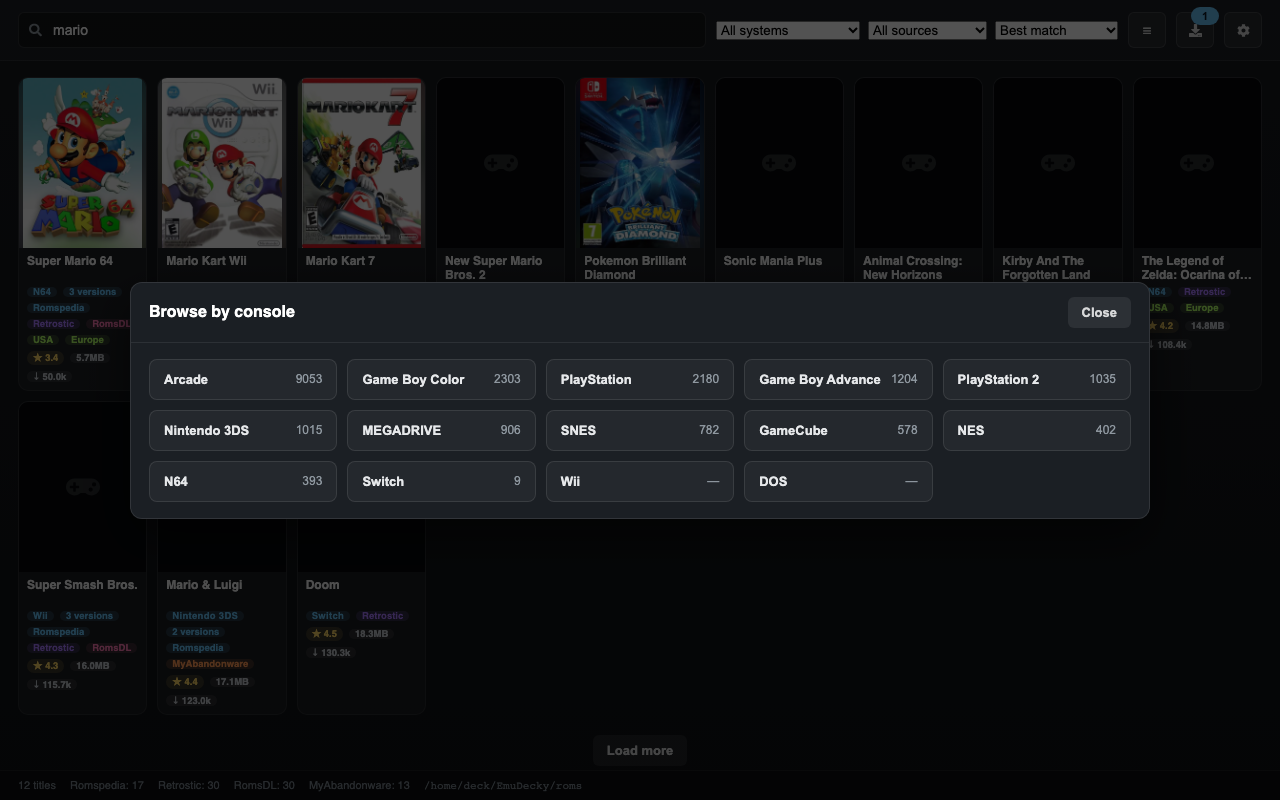
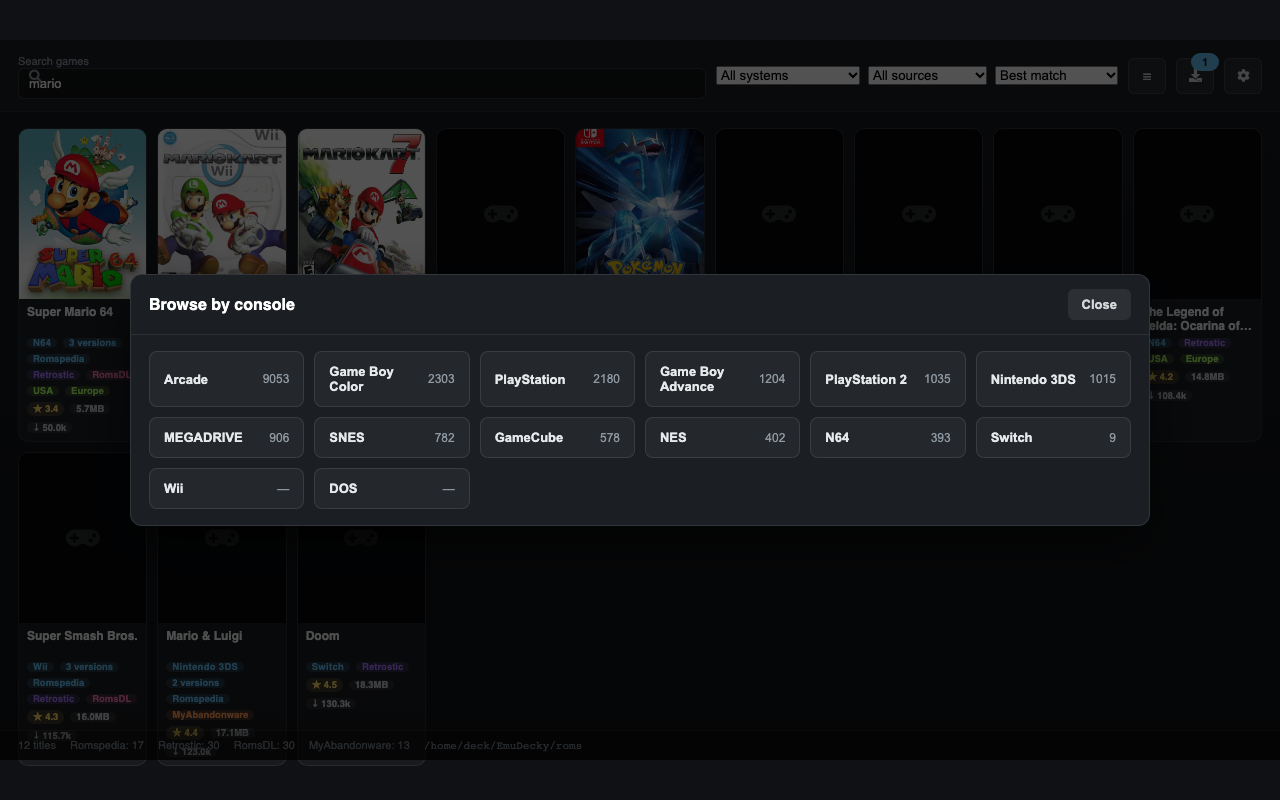
Use Steam TextField for all inputs, default chrome insets to 40px, centre the loader, six console tiles per row

diff --git a/src/components/SettingsModal.tsx b/src/components/SettingsModal.tsx
@@ -1,4 +1,5 @@
 import { FC, useEffect, useState } from "react";
+import { TextField } from "@decky/ui";
 import { toaster } from "@decky/api";
 import { getLibrary, getSettings, LibraryInfo, Settings, updateSettings } from "../types";
 import { SOURCE_LABELS } from "./common";
@@ -89,7 +90,12 @@ const SettingsModal: FC<Props> = ({ onClose, onSaved }) => {
           <div className="rs-section-title">ROM library</div>
           <div className="rs-form-row">
             <label>EmuDecky ROM folder</label>
-            <input type="text" value={customRoot} onChange={(event) => setCustomRoot(event.target.value)} placeholder="/home/deck/EmuDecky/roms" />
+            <TextField
+              label="EmuDecky ROM folder"
+              value={customRoot}
+              placeholder="/home/deck/EmuDecky/roms"
+              onChange={(event) => setCustomRoot(event.target.value)}
+            />
           </div>
           <div className="rs-form-row">
             <label>Detected folders</label>
@@ -148,8 +154,8 @@ const SettingsModal: FC<Props> = ({ onClose, onSaved }) => {
                   </div>
                   <div className="rs-form-row">
                     <label>Search URL</label>
-                    <input
-                      type="text"
+                    <TextField
+                      label="DumbRoms search URL"
                       value={settings.dumbroms_search_url}
                       onChange={(event) => update({ dumbroms_search_url: event.target.value })}
                     />
@@ -168,8 +174,8 @@ const SettingsModal: FC<Props> = ({ onClose, onSaved }) => {
           <div className="rs-section-title">Cover art</div>
           <div className="rs-form-row">
             <label>IGDB client ID</label>
-            <input
-              type="text"
+            <TextField
+              label="IGDB client ID"
               value={settings.igdb_client_id ?? ""}
               onChange={(event) => update({ igdb_client_id: event.target.value })}
               placeholder="optional"
@@ -177,8 +183,8 @@ const SettingsModal: FC<Props> = ({ onClose, onSaved }) => {
           </div>
           <div className="rs-form-row">
             <label>IGDB client secret</label>
-            <input
-              type="text"
+            <TextField
+              label="IGDB client secret"
               value={settings.igdb_client_secret ?? ""}
               onChange={(event) => update({ igdb_client_secret: event.target.value })}
               placeholder="optional"
@@ -194,16 +200,16 @@ const SettingsModal: FC<Props> = ({ onClose, onSaved }) => {
           <div className="rs-section-title">Steam overlay</div>
           <div className="rs-form-row">
             <label>Header offset</label>
-            <input
-              type="text"
+            <TextField
+              label="Header offset (px)"
               value={String(settings.chrome_top_offset ?? 0)}
               onChange={(event) => update({ chrome_top_offset: Number(event.target.value) || 0 })}
             />
           </div>
           <div className="rs-form-row">
             <label>Button bar offset</label>
-            <input
-              type="text"
+            <TextField
+              label="Button bar offset (px)"
               value={String(settings.chrome_bottom_offset ?? 0)}
               onChange={(event) => update({ chrome_bottom_offset: Number(event.target.value) || 0 })}
             />

diff --git a/src/index.tsx b/src/index.tsx
@@ -1,6 +1,6 @@
-import { useEffect, useRef, useState } from "react";
+import { useEffect, useState } from "react";
 import { definePlugin, routerHook } from "@decky/api";
-import { ButtonItem, Navigation, PanelSection, PanelSectionRow, staticClasses } from "@decky/ui";
+import { ButtonItem, Navigation, PanelSection, PanelSectionRow, staticClasses, TextField } from "@decky/ui";
 import { FaStore } from "react-icons/fa";
 
 import Store from "./components/Store";
@@ -19,7 +19,6 @@ const StoreRoute = () => (
 function PanelContent() {
   const [query, setQuery] = useState("");
   const [active, setActive] = useState(0);
-  const queryInput = useRef<HTMLInputElement | null>(null);
   const [status, setStatus] = useState<Awaited<ReturnType<typeof getStatus>> | null>(null);
 
   useEffect(() => {
@@ -62,31 +61,13 @@ function PanelContent() {
         <PanelSection title="ROM Store">
         <PanelSectionRow>
           <div style={{ display: "flex", gap: "8px", width: "100%", alignItems: "center" }}>
-            <input
-              ref={queryInput}
-              type="text"
+            <TextField
+              label="Search games"
               value={query}
-              placeholder="Search games…"
-              onClick={() => {
-                queryInput.current?.focus();
-                queryInput.current?.select();
-              }}
-              onMouseDown={(event) => {
-                event.preventDefault();
-                queryInput.current?.focus();
-              }}
+              placeholder="Games, consoles or regions…"
               onChange={(event) => setQuery(event.target.value)}
               onKeyDown={(event) => {
                 if (event.key === "Enter") open();
-              }}
-              style={{
-                flex: "1 1 auto",
-                padding: "6px 8px",
-                borderRadius: "4px",
-                border: "1px solid rgba(255,255,255,0.15)",
-                background: "rgba(0,0,0,0.3)",
-                color: "#fff",
-                fontSize: "13px",
               }}
             />
           </div>

diff --git a/src/styles.ts b/src/styles.ts
@@ -6,7 +6,7 @@ export const CSS = `
      its own; a spacer at the end of the list keeps the last card reachable. */
   position: fixed;
   top: var(--rs-chrome-top, var(--basicui-header-height, 40px));
-  bottom: var(--rs-chrome-bottom, 0px);
+  bottom: var(--rs-chrome-bottom, 40px);
   left: 0;
   right: 0;
   display: flex;
@@ -85,7 +85,7 @@ export const CSS = `
 .rs-main::-webkit-scrollbar-track { background: rgba(0, 0, 0, 0.25); }
 .rs-main::-webkit-scrollbar-thumb { background: rgba(255, 255, 255, 0.18); border-radius: 5px; }
 .rs-main::-webkit-scrollbar-thumb:hover { background: rgba(255, 255, 255, 0.3); }
-.rs-bottom-space { height: var(--rs-chrome-bottom, 0px); flex: 0 0 auto; }
+.rs-bottom-space { height: var(--rs-chrome-bottom, 40px); flex: 0 0 auto; }
 
 .rs-grid {
   display: grid;
@@ -181,7 +181,7 @@ export const CSS = `
 
 .rs-footer {
   position: sticky;
-  bottom: var(--rs-chrome-bottom, 0px);
+  bottom: var(--rs-chrome-bottom, 40px);
   z-index: 5;
   flex: 0 0 auto; display: flex; align-items: center; gap: 14px;
   padding: 8px 18px; font-size: 11px; color: #79838c;
@@ -322,7 +322,11 @@ export const CSS = `
   margin: 18px 0 10px; border-bottom: 1px solid rgba(255,255,255,0.07); padding-bottom: 6px;
 }
 
-.rs-loading { display: flex; align-items: center; justify-content: center; gap: 10px; padding: 60px; color: #8b949d; }
+.rs-main.is-loading { display: flex; align-items: center; justify-content: center; }
+.rs-loading {
+  display: flex; flex-direction: column; align-items: center; justify-content: center;
+  gap: 12px; padding: 60px; color: #8b949d; text-align: center;
+}
 .rs-spinner {
   width: 18px; height: 18px; border-radius: 50%;
   border: 2px solid rgba(255,255,255,0.15); border-top-color: #66c0f4;
@@ -342,7 +346,7 @@ export const CSS = `
 }
 
 .rs-browse-grid {
-  display: grid; grid-template-columns: repeat(auto-fill, minmax(168px, 1fr)); gap: 10px;
+  display: grid; grid-template-columns: repeat(auto-fill, minmax(138px, 1fr)); gap: 10px;
 }
 .rs-browse-tile {
   display: flex; align-items: center; justify-content: space-between; gap: 10px;

diff --git a/src/components/Store.tsx b/src/components/Store.tsx
@@ -1,6 +1,6 @@
 import { FC, useCallback, useEffect, useMemo, useRef, useState } from "react";
 import { toaster } from "@decky/api";
-import { Dropdown } from "@decky/ui";
+import { Dropdown, TextField } from "@decky/ui";
 import { FaCog, FaDownload, FaSearch } from "react-icons/fa";
 import {
   browseRoms,
@@ -59,7 +59,6 @@ const Store: FC = () => {
   const [showIssues, setShowIssues] = useState(false);
 
   const requestId = useRef(0);
-  const searchInput = useRef<HTMLInputElement | null>(null);
   const debounce = useRef<ReturnType<typeof setTimeout> | null>(null);
   const storeRef = useChromeInsets(
     settings?.chrome_top_offset ?? 0,
@@ -215,23 +214,11 @@ const Store: FC = () => {
           <span className="rs-search-icon">
             <FaSearch />
           </span>
-          <input
-            ref={searchInput}
-            type="text"
+          <TextField
+            label="Search games"
             value={query}
-            placeholder="Search games, consoles or regions…"
+            placeholder="Games, consoles or regions…"
             onChange={(event) => setQuery(event.target.value)}
-            autoFocus
-            onClick={() => {
-              searchInput.current?.focus();
-              searchInput.current?.select();
-            }}
-            onMouseDown={(event) => {
-              // Keep the focus on the field - the Steam client only shows the
-              // on screen keyboard for a focused text input.
-              event.preventDefault();
-              searchInput.current?.focus();
-            }}
           />
         </div>
 
@@ -284,7 +271,7 @@ const Store: FC = () => {
         </button>
       </div>
 
-      <div className="rs-main">
+      <div className={`rs-main${loading && results.length === 0 ? " is-loading" : ""}`}>
         {loading && results.length === 0 ? (
           <div className="rs-loading">
             <div className="rs-spinner" /> Searching…

diff --git a/tools/preview/mock-ui.tsx b/tools/preview/mock-ui.tsx
@@ -50,4 +50,36 @@ export const Dropdown: FC<DropdownProps> = ({ rgOptions = [], selectedOption, on
   </select>
 );
 
+interface TextFieldProps {
+  label?: string;
+  value?: string;
+  placeholder?: string;
+  onChange?: (event: { target: { value: string } }) => void;
+  onKeyDown?: (event: any) => void;
+  disabled?: boolean;
+}
+
+export const TextField: FC<TextFieldProps> = ({ label, value, placeholder, onChange, onKeyDown }) => (
+  <label style={{ display: "block", flex: "1 1 auto", minWidth: 0 }}>
+    <span style={{ fontSize: "11px", color: "#8f98a0" }}>{label}</span>
+    <input
+      type="text"
+      value={value ?? ""}
+      placeholder={placeholder}
+      onChange={(event) => onChange?.({ target: { value: event.target.value } })}
+      onKeyDown={onKeyDown}
+      style={{
+        width: "100%",
+        boxSizing: "border-box",
+        padding: "7px 10px",
+        borderRadius: "6px",
+        border: "1px solid rgba(255,255,255,0.14)",
+        background: "rgba(0,0,0,0.35)",
+        color: "#fff",
+        fontSize: "13px",
+      }}
+    />
+  </label>
+);
+
 export const staticClasses = { Title: "DeckyTitle" } as Record<string, string>;

diff --git a/src/components/useChromeInsets.ts b/src/components/useChromeInsets.ts
@@ -50,8 +50,10 @@ export function useChromeInsets(manualTop = 0, manualBottom = 0): RefObject<HTML
         }
       }
 
-      const top = manualTop > 0 ? manualTop : (headerFromSteam || measuredTop);
-      const bottom = manualBottom > 0 ? manualBottom : footerFromSteam;
+      // Steam does not always publish these, so fall back to a sensible
+      // default instead of ending up under the chrome.
+      const top = manualTop > 0 ? manualTop : (headerFromSteam || measuredTop || 40);
+      const bottom = manualBottom > 0 ? manualBottom : (footerFromSteam || 40);
 
       element.style.setProperty("--rs-chrome-top", `${top}px`);
       element.style.setProperty("--rs-chrome-bottom", `${bottom}px`);
